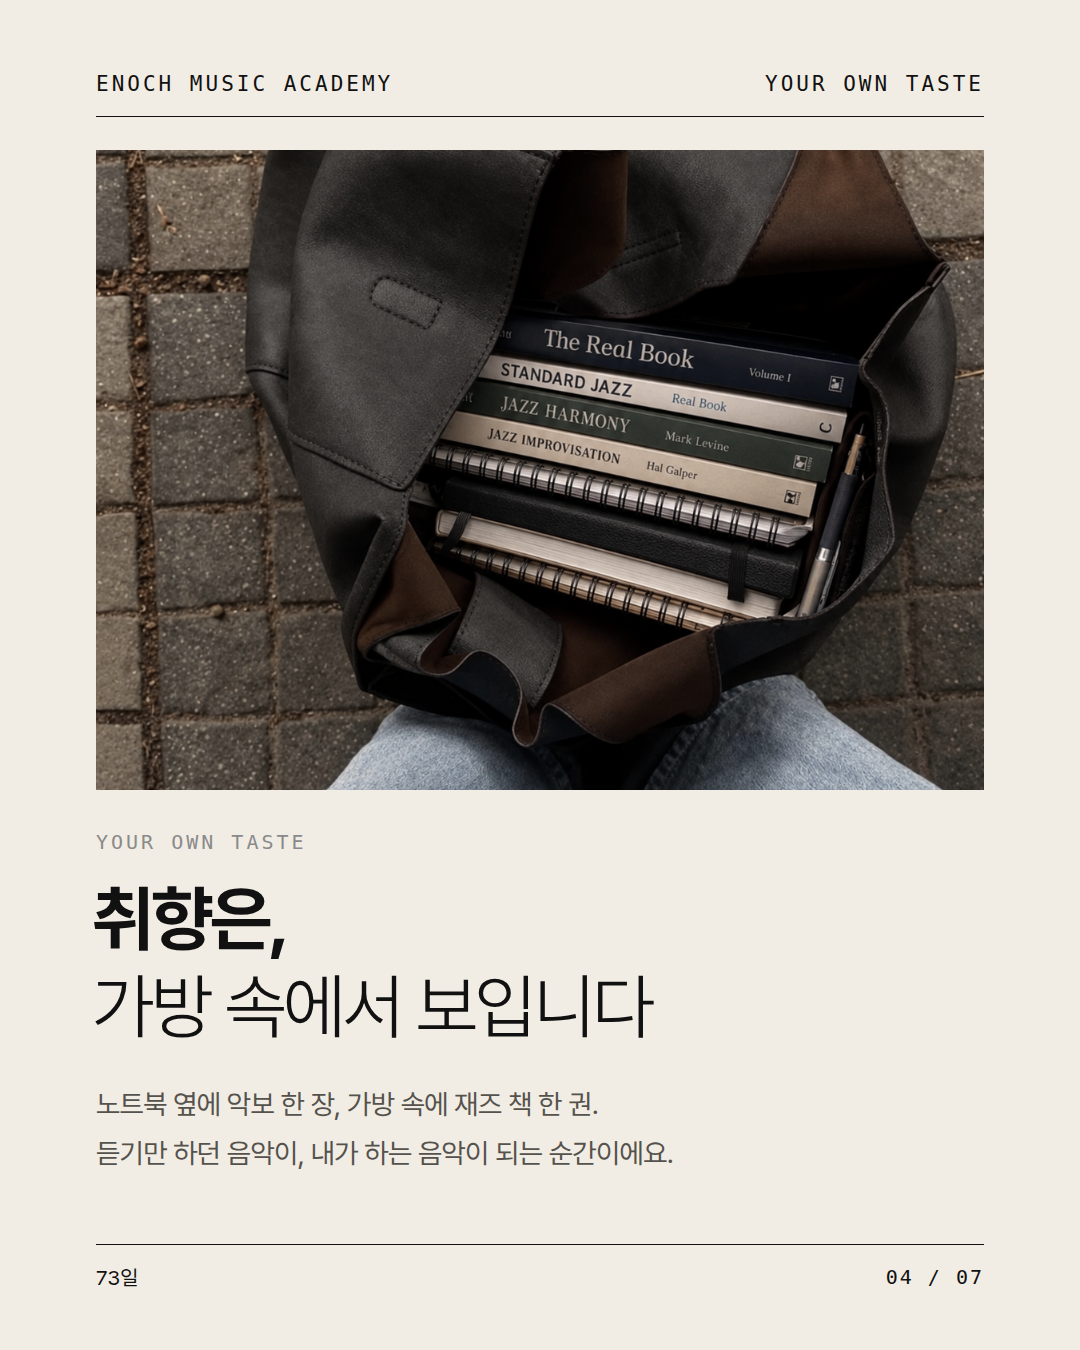
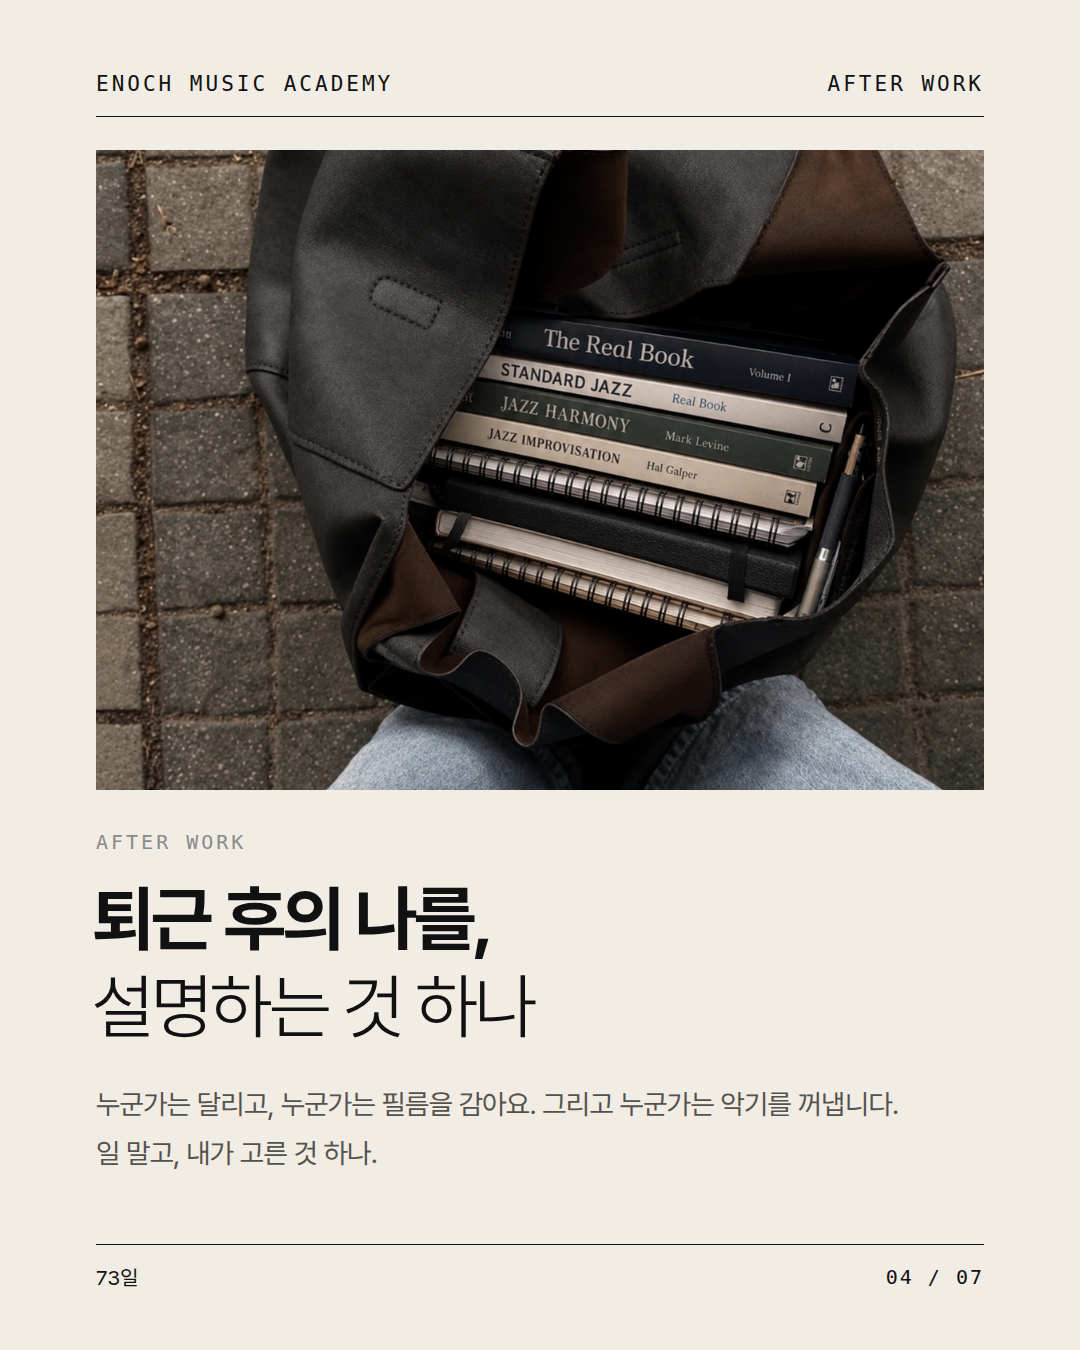
73일: 4장 문구 교체
Claude-Session: https://claude.ai/code/session_01HGbZvgMeYrbU7mY8bwfjyb

diff --git a/output/노트_남은날짜/deck.html b/output/노트_남은날짜/deck.html
@@ -53,11 +53,11 @@
 <div class="m">12월</div><div class="y">좋아하는 곡 한 소절을<br>끝까지</div><div class="n">연말이니까,<br>내년부터</div>
 <div class="m">12.31</div><div class="y"><b>올해 시작한 게<br>하나 있는 사람</b></div><div class="n">다시,<br>"내년엔 꼭"</div>
 </div>
-<div class="ft"><span>73일</span><span>03 / 07</span></div></section><section class="s" id="c4"><div class="hd"><span>ENOCH MUSIC ACADEMY</span><span>YOUR OWN TASTE</span></div>
+<div class="ft"><span>73일</span><span>03 / 07</span></div></section><section class="s" id="c4"><div class="hd"><span>ENOCH MUSIC ACADEMY</span><span>AFTER WORK</span></div>
 <img src="../../images/기타/라이프_가방악보_01.png" style="position:absolute;left:96px;top:150px;width:888px;height:640px;object-fit:cover;object-position:50% 50%;display:block;filter:saturate(.85)">
-<div class="k a" style="left:96px;top:830px">Your Own Taste</div>
-<div class="h a" style="left:92px;top:875px">취향은,<br><em>가방 속에서 보입니다</em></div>
-<div class="p a" style="left:96px;right:96px;top:1080px;font-size:28px">노트북 옆에 악보 한 장, 가방 속에 재즈 책 한 권.<br>듣기만 하던 음악이, 내가 하는 음악이 되는 순간이에요.</div>
+<div class="k a" style="left:96px;top:830px">After Work</div>
+<div class="h a" style="left:92px;top:875px">퇴근 후의 나를,<br><em>설명하는 것 하나</em></div>
+<div class="p a" style="left:96px;right:96px;top:1080px;font-size:28px">누군가는 달리고, 누군가는 필름을 감아요. 그리고 누군가는 악기를 꺼냅니다.<br>일 말고, 내가 고른 것 하나.</div>
 <div class="ft"><span>73일</span><span>04 / 07</span></div></section><section class="s" id="c5"><div class="hd"><span>ENOCH MUSIC ACADEMY</span><span>SMALL, BUT STEADY</span></div>
 <div class="bu a" style="left:96px;right:96px;top:150px;height:470px"></div>
 <svg class="a" style="left:150px;top:190px;overflow:visible" width="800" height="380" viewBox="0 0 800 380">

diff --git a/output/노트_남은날짜/gen.py b/output/노트_남은날짜/gen.py
@@ -77,11 +77,11 @@ S.append(f"""<section class="s" id="c3">{HD("SAME DAYS, DIFFERENT DECEMBER")}
 </div>
 {FT(3)}</section>""")
 # 04 취향
-S.append(f"""<section class="s" id="c4">{HD("YOUR OWN TASTE")}
+S.append(f"""<section class="s" id="c4">{HD("AFTER WORK")}
 <img src="../../images/기타/라이프_가방악보_01.png" style="position:absolute;left:96px;top:150px;width:888px;height:640px;object-fit:cover;object-position:50% 50%;display:block;filter:saturate(.85)">
-<div class="k a" style="left:96px;top:830px">Your Own Taste</div>
-<div class="h a" style="left:92px;top:875px">취향은,<br><em>가방 속에서 보입니다</em></div>
-<div class="p a" style="left:96px;right:96px;top:1080px;font-size:28px">노트북 옆에 악보 한 장, 가방 속에 재즈 책 한 권.<br>듣기만 하던 음악이, 내가 하는 음악이 되는 순간이에요.</div>
+<div class="k a" style="left:96px;top:830px">After Work</div>
+<div class="h a" style="left:92px;top:875px">퇴근 후의 나를,<br><em>설명하는 것 하나</em></div>
+<div class="p a" style="left:96px;right:96px;top:1080px;font-size:28px">누군가는 달리고, 누군가는 필름을 감아요. 그리고 누군가는 악기를 꺼냅니다.<br>일 말고, 내가 고른 것 하나.</div>
 {FT(4)}</section>""")
 # 05 그래프
 x1=780
